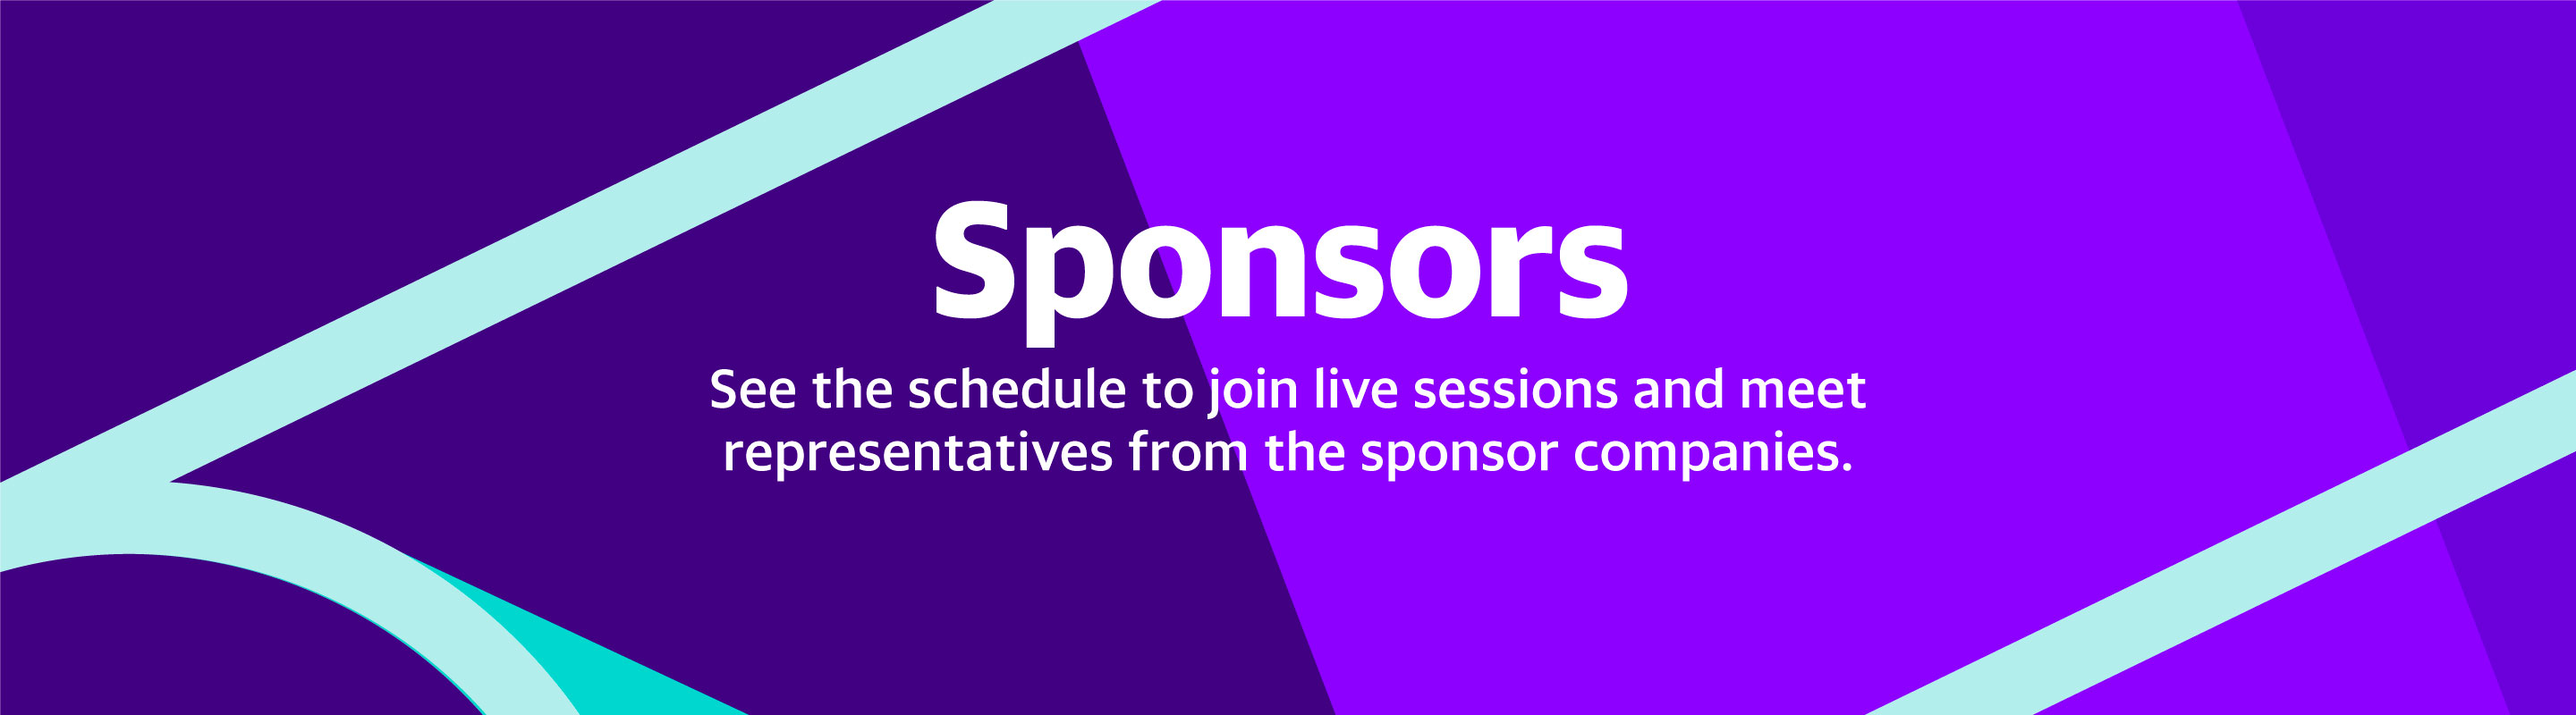
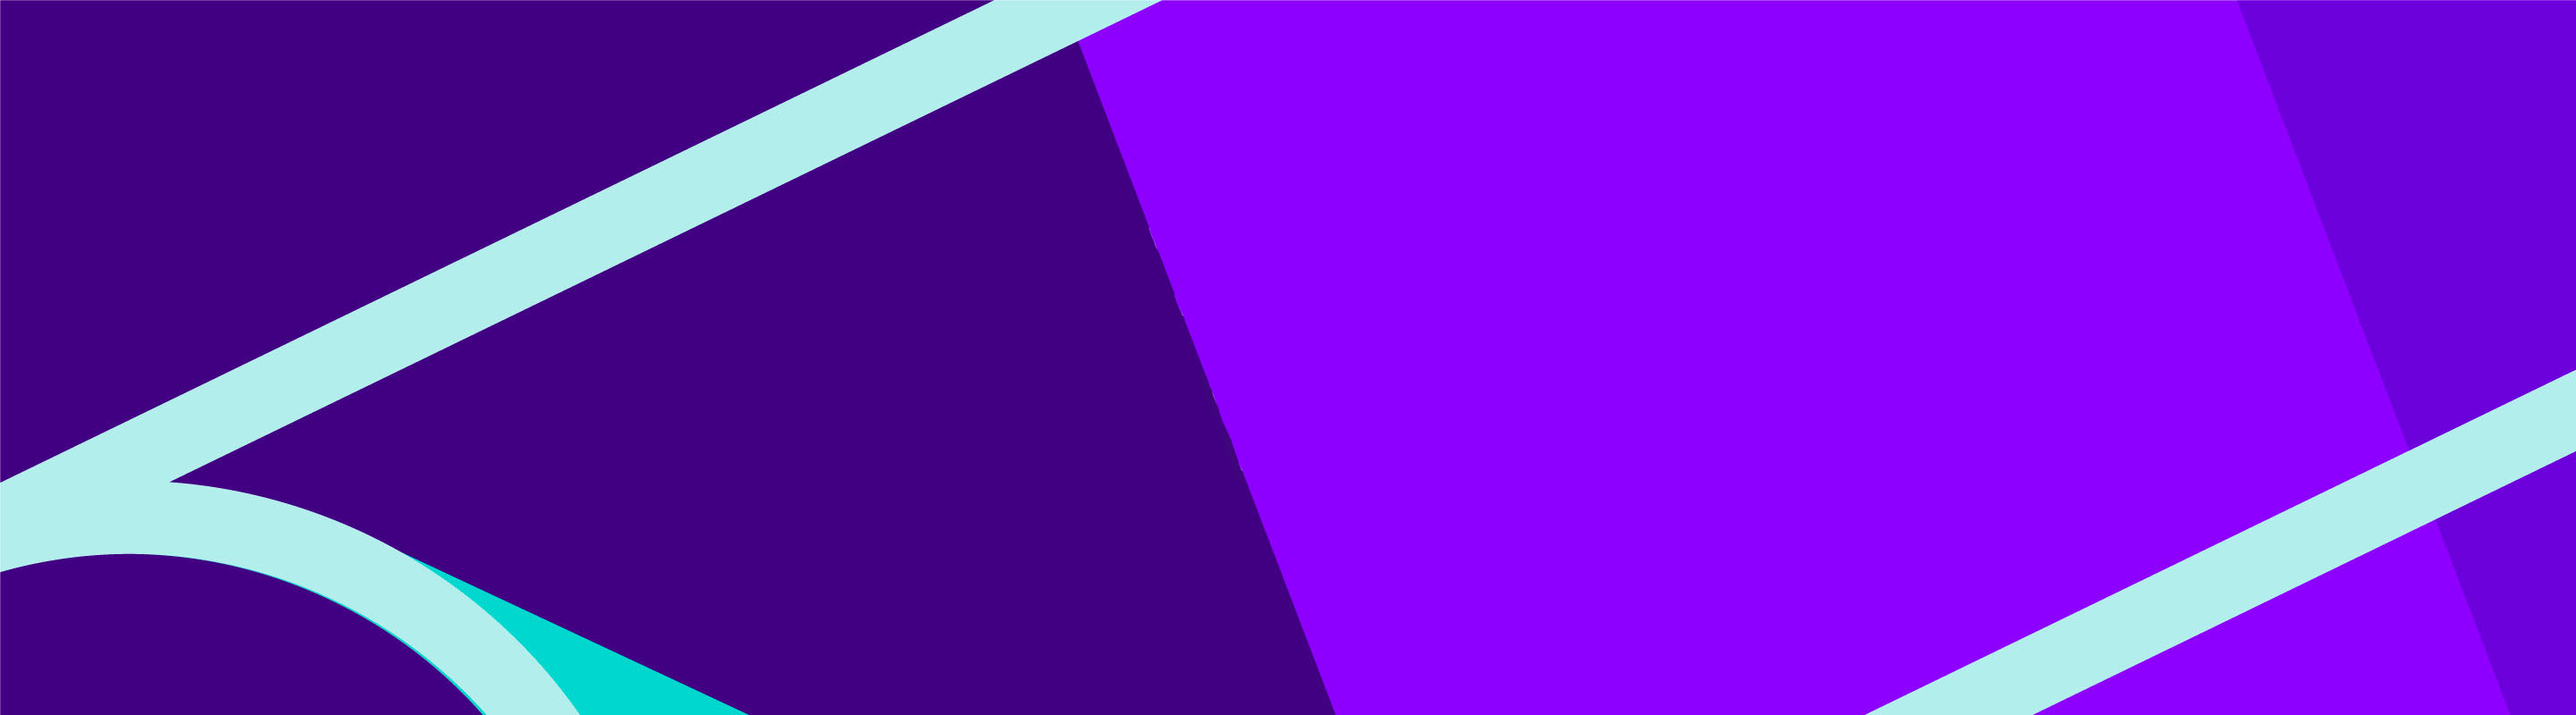
Small title fixes, fixed expo/sponsor page hero container breaking on small screens

Changed region(s): [[0.2812, 0.5, 0.75, 0.6562], [0.3438, 0.2812, 0.6562, 0.5]]

diff --git a/src/templates/expo-hall-page.js b/src/templates/expo-hall-page.js
@@ -7,18 +7,25 @@ import SponsorComponent from '../components/SponsorComponent'
 import AttendanceTrackerComponent from '../components/AttendanceTrackerComponent'
 import AccessTracker from '../components/AttendeeToAttendeeWidgetComponent'
 
-const ExpoHallPage = ({ location, imageHeader }) => {
+import styles from '../styles/expo-hero.module.scss'
 
+const ExpoHallPage = ({ location, imageHeader }) => {
   return (
     <Layout location={location}>
       <AttendanceTrackerComponent />
       <AccessTracker />
         <section className="hero is-large sponsors-header" style={{ backgroundImage: `url(${imageHeader.file})` }}>
           <div className="hero-body">
-            <div className="container">
+            <div className={styles.heroContainer}>
+              <h1 className={styles.title}>
+                Sponsors
+              </h1>
+              <h2 className={styles.subtitle}>
+                See the schedule to join live sessions and meet representatives from the sponsor companies.
+              </h2>
             </div>
           </div>
-        </section>      
+        </section>
       <section className="section px-6 py-6">
         <SponsorComponent />
       </section>

diff --git a/src/templates/home-page.js b/src/templates/home-page.js
@@ -54,12 +54,12 @@ export const HomePageTemplate = class extends React.Component {
         <div className="px-5 py-5 mb-6">
           <div className="columns">
             <div className="column is-one-quarter">
-              <h2><b>Community</b></h2>
+              <h2><b>Sponsors</b></h2>
               <SponsorComponent page='lobby'/>
               <AdvertiseComponent section='lobby' column="left" />
             </div>
             <div className="column is-half">
-              <h2><b>Today</b></h2>
+              <h2><b>Today's Sessions</b></h2>
               <LiveEventWidgetComponent
                 onlyPresentations={true}
                 featuredEventId={homeSettings.live_now_featured_event_id}

diff --git a/src/styles/expo-hero.module.scss b/src/styles/expo-hero.module.scss
@@ -1,0 +1,33 @@
+@import "./colors.scss";
+
+.hero-container {
+  display: flex;
+  flex-direction: column;
+}
+
+.title {
+  font-size: 36px;
+  color: $color_primary_contrast;
+  font-weight: bold;
+  text-align: center;
+}
+
+.subtitle {
+  font-size: 24px;
+  color: $color_primary_contrast;
+  text-align: center;
+  max-width: 800px;
+  margin: auto;
+}
+
+@media (max-width: 600px) {
+  .hero-container {
+    height: 200px;
+  }
+}
+
+@media (max-width: 400px) {
+  .hero-container {
+    height: 220px;
+  }
+}

diff --git a/src/components/DocumentsComponent.js b/src/components/DocumentsComponent.js
@@ -30,7 +30,7 @@ const DocumentsComponent = ({ event }) => {
   return (
     <div>
       <div className={`${styles.docsContainer}`} style={{ marginTop: "1em" }}>
-        <div className={`navbar-brand ${styles.title}`}>Media/Links</div>
+        <div className={`navbar-brand ${styles.title}`}>Additional Resources</div>
         <hr />
         {sortedMaterials.map((material, index) => {
           let faIcon = "fa-link";
